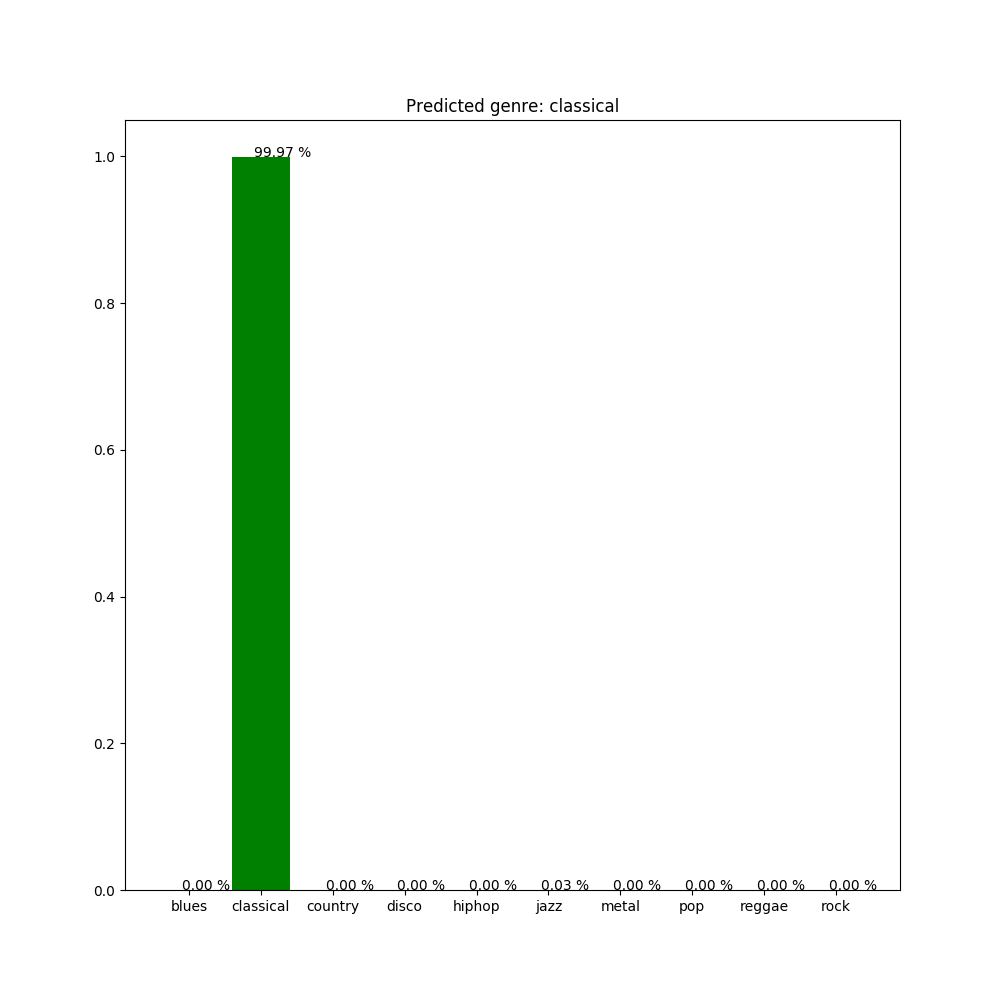
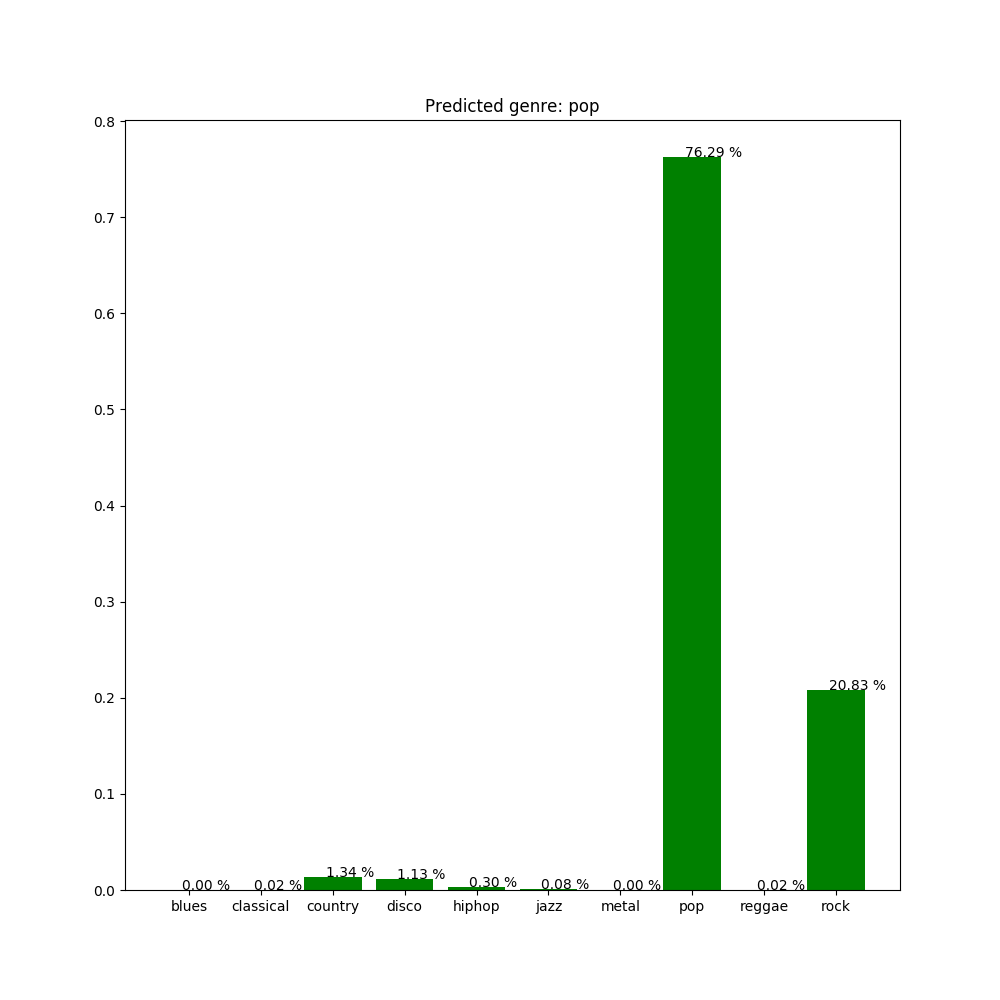
mas improvements

diff --git a/music.py b/music.py
@@ -70,9 +70,6 @@ def get_url(song_id):
     track = sp.track(song_id)
     url=[]
     url.append(track['preview_url'])
-    # if len(url) == 0 or url[0] == None:
-    #     print ("\nSorry, there's no preview available for your song :(")
-    # else:
     return url[0]
 
 

diff --git a/main.py b/main.py
@@ -8,7 +8,7 @@ import threading
 import warnings
 warnings.filterwarnings("ignore")
 
-SONG = '/home/maximiliano/datamadrid0619/FINAL_PROJECT/music_classifier/Data/unlabelled_songs/song.mp3'
+SONG = './Data/test_songs/classical.mp3'
 
 
 def parse():
